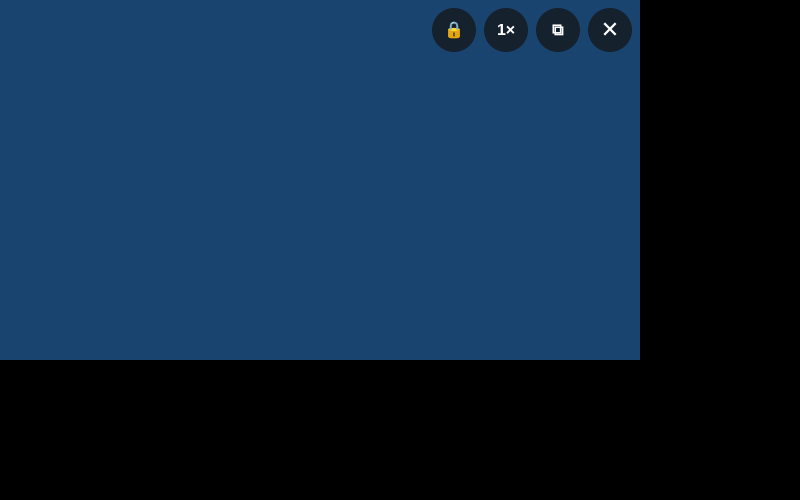
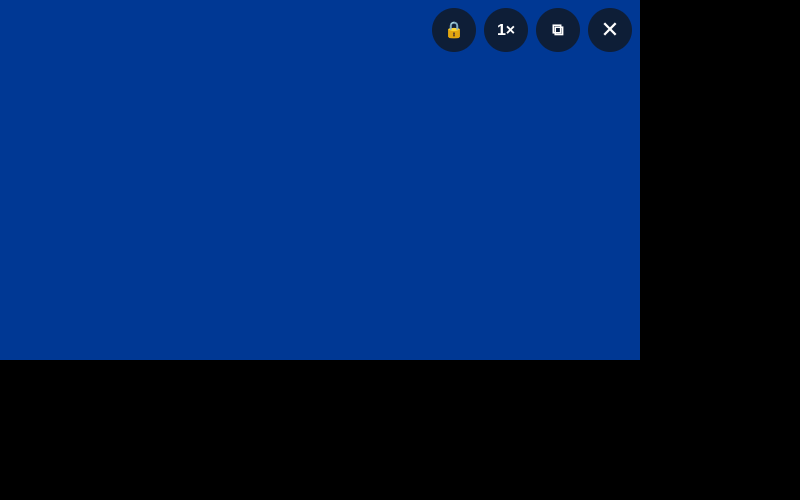
One player at a time: site player controls only (extra in-page tools off by default), native player hands the video back to the page if it cannot play it; smooth seek bar with buffered part, loading spinner, actual quality label; read-ahead buffering in the native player and for hls.js / video.js si
Claude-Session: https://claude.ai/code/session_01BTuB3s3o5GW3qnm8wd5fWm

diff --git a/android/app/src/main/java/com/aib/browser/PlayerActivity.kt b/android/app/src/main/java/com/aib/browser/PlayerActivity.kt
@@ -73,7 +73,13 @@ class PlayerActivity : Activity() {
     private var renderer: Renderer? = null
     @Volatile private var aiWanted = true
     private var page = ""
+    private val startedAt = System.currentTimeMillis()
     private var retries = 0
+    private var dragging = false
+    private var everPlayed = false
+    private var failed = false
+    private var autoQuality = true
+    private lateinit var spinner: android.widget.ProgressBar
     private lateinit var directView: SurfaceView
     private var hdrDirect = false
     private lateinit var eqBtn: TextView
@@ -121,9 +127,10 @@ class PlayerActivity : Activity() {
         seek = SeekBar(this).apply {
             max = 1000
             setOnSeekBarChangeListener(object : SeekBar.OnSeekBarChangeListener {
-                override fun onProgressChanged(s: SeekBar, p: Int, fromUser: Boolean) { if (fromUser && player.duration > 0) player.seekTo(player.duration * p / 1000) }
-                override fun onStartTrackingTouch(s: SeekBar) { ui.removeCallbacks(hideControls) }
-                override fun onStopTrackingTouch(s: SeekBar) { showControls() }
+                // while dragging only the time label follows the finger; one seek when the finger lifts (no stutter on slow networks)
+                override fun onProgressChanged(s: SeekBar, p: Int, fromUser: Boolean) { if (fromUser && player.duration > 0) time.text = "  ${fmt(player.duration * p / 1000)} / ${fmt(player.duration)}" }
+                override fun onStartTrackingTouch(s: SeekBar) { dragging = true; ui.removeCallbacks(hideControls) }
+                override fun onStopTrackingTouch(s: SeekBar) { dragging = false; if (player.duration > 0) player.seekTo(player.duration * s.progress / 1000); showControls() }
             })
         }
         time = TextView(this).apply { textSize = 13f; setTextColor(Color.WHITE) }
@@ -145,19 +152,35 @@ class PlayerActivity : Activity() {
         overlay.addView(status, FrameLayout.LayoutParams(-2, -2, Gravity.BOTTOM or Gravity.START).apply { setMargins(dp(20), 0, 0, dp(64)) })
         controls = overlay
         root.addView(overlay, FrameLayout.LayoutParams(-1, -1))
+        spinner = android.widget.ProgressBar(this).apply { isIndeterminate = true; indeterminateTintList = android.content.res.ColorStateList.valueOf(Color.WHITE); visibility = View.GONE }
+        root.addView(spinner, FrameLayout.LayoutParams(dp(56), dp(56), Gravity.CENTER))
         toast = TextView(this).apply { textSize = 20f; setTextColor(Color.WHITE); background = pill(0xAA000000.toInt()); setPadding(dp(18), dp(10), dp(18), dp(10)); visibility = View.GONE }
         root.addView(toast, FrameLayout.LayoutParams(-2, -2, Gravity.CENTER))
         setContentView(root)
 
         val http = DefaultHttpDataSource.Factory().setUserAgent(ua).setDefaultRequestProperties(headers).setAllowCrossProtocolRedirects(true)
             .setConnectTimeoutMs(15000).setReadTimeoutMs(20000)
-        player = ExoPlayer.Builder(this).setMediaSourceFactory(DefaultMediaSourceFactory(this).setDataSourceFactory(http)).build()
+        // keep downloading ahead while you watch (up to 30 minutes or ~300 MB in memory, whichever comes first), so a weak or dropping
+        // connection does not stop the movie; playback starts as soon as 1.5 s is ready
+        val load = androidx.media3.exoplayer.DefaultLoadControl.Builder()
+            .setBufferDurationsMs(10 * 60_000, 30 * 60_000, 1_500, 3_000)
+            .setTargetBufferBytes(300 * 1024 * 1024).setPrioritizeTimeOverSizeThresholds(false)
+            .setBackBuffer(2 * 60_000, true) // seeking back up to 2 minutes is instant
+            .build()
+        player = ExoPlayer.Builder(this).setLoadControl(load).setMediaSourceFactory(DefaultMediaSourceFactory(this).setDataSourceFactory(http)).build()
         setupSound()
         val item = MediaItem.Builder().setUri(url).apply { if (url.contains(".m3u8", true) || intent.getBooleanExtra("hls", false)) setMimeType(MimeTypes.APPLICATION_M3U8) }.build()
         player.setMediaItem(item, intent.getLongExtra("pos", 0L).coerceAtLeast(0L))
         player.prepare(); player.playWhenReady = true
         player.addListener(object : Player.Listener {
-            override fun onIsPlayingChanged(isPlaying: Boolean) { playBtn.text = if (isPlaying) "⏸" else "▶"; if (isPlaying) retries = 0 }
+            override fun onIsPlayingChanged(isPlaying: Boolean) { playBtn.text = if (isPlaying) "⏸" else "▶"; if (isPlaying) { retries = 0; everPlayed = true } }
+            override fun onRenderedFirstFrame() { everPlayed = true }
+            override fun onPlaybackStateChanged(state: Int) {
+                val buffering = state == Player.STATE_BUFFERING
+                spinner.visibility = if (buffering) View.VISIBLE else View.GONE
+                playBtn.visibility = if (buffering) View.INVISIBLE else View.VISIBLE
+                if (state == Player.STATE_ENDED) { Resume.remove(this@PlayerActivity, page); finish() }
+            }
             override fun onPlayerError(error: PlaybackException) {
                 addLog("[player] error ${error.errorCodeName} ${error.message}")
                 // network dropped or the server hiccuped: try again from the same second, waiting a bit longer each time
@@ -174,7 +197,8 @@ class PlayerActivity : Activity() {
                         if (error.errorCode == PlaybackException.ERROR_CODE_BEHIND_LIVE_WINDOW) player.seekToDefaultPosition()
                         player.prepare(); player.playWhenReady = true
                     }, wait)
-                } else status.text = if (c == PlaybackException.ERROR_CODE_IO_BAD_HTTP_STATUS || c == PlaybackException.ERROR_CODE_IO_FILE_NOT_FOUND) "انتهت صلاحية رابط الفيديو، ارجع للصفحة وشغّله من جديد" else "خطأ في التشغيل: ${error.errorCodeName}"
+                } else if (!everPlayed) giveUp("${error.errorCodeName}")
+                else status.text = if (c == PlaybackException.ERROR_CODE_IO_BAD_HTTP_STATUS || c == PlaybackException.ERROR_CODE_IO_FILE_NOT_FOUND) "انتهت صلاحية رابط الفيديو، ارجع للصفحة وشغّله من جديد" else "خطأ في التشغيل: ${error.errorCodeName}"
             }
             override fun onTracksChanged(tracks: androidx.media3.common.Tracks) {
                 val f = tracks.groups.firstOrNull { it.type == C.TRACK_TYPE_VIDEO && it.isSelected }?.let { g -> (0 until g.length).firstOrNull { g.isTrackSelected(it) }?.let { g.getTrackFormat(it) } }
@@ -201,13 +225,30 @@ class PlayerActivity : Activity() {
         tickUi(); showControls()
     }
 
+    /** The native player could not start this video (protected stream, wrong address...): go back, the page keeps playing it. */
+    private fun giveUp(why: String) {
+        if (failed || isFinishing) return
+        failed = true; addLog("[player] gave up before the first frame: $why")
+        finish()
+    }
+    override fun finish() {
+        if (::player.isInitialized) setResult(RESULT_OK, Intent().putExtra("pos", player.currentPosition).putExtra("failed", failed))
+        super.finish()
+    }
+
     private val hideControls = Runnable { controls.visibility = View.GONE }
     private fun showControls() { controls.visibility = View.VISIBLE; ui.removeCallbacks(hideControls); ui.postDelayed(hideControls, 3500) }
     private fun fmt(ms: Long): String { val s = ms / 1000; return if (s >= 3600) "%d:%02d:%02d".format(s / 3600, s / 60 % 60, s % 60) else "%d:%02d".format(s / 60, s % 60) }
     private fun tickUi() {
         if (isFinishing) return
         val d = player.duration
-        if (d > 0) { seek.progress = (player.currentPosition * 1000 / d).toInt(); time.text = "  ${fmt(player.currentPosition)} / ${fmt(d)}" }
+        if (d > 0 && !dragging) {
+            seek.progress = (player.currentPosition * 1000 / d).toInt(); seek.secondaryProgress = (player.bufferedPosition * 1000 / d).toInt()
+            time.text = "  ${fmt(player.currentPosition)} / ${fmt(d)}"
+        }
+        if (autoQuality) { val h = player.videoSize.height; qualityBtn.text = if (h > 0) "تلقائي ${h}p" else "تلقائي" }
+        // still nothing on screen after 30 s: this address does not work here, hand the video back to the page
+        if (!everPlayed && !failed && player.playbackState == Player.STATE_BUFFERING && System.currentTimeMillis() - startedAt > 30_000) giveUp("timeout")
         ui.postDelayed({ tickUi() }, 500)
     }
     private fun flash(t: String) { toast.text = t; toast.visibility = View.VISIBLE; ui.removeCallbacks(hideToast); ui.postDelayed(hideToast, 700) }
@@ -284,7 +325,7 @@ class PlayerActivity : Activity() {
         val opts = ArrayList<Pair<String, (() -> Unit)>>()
         opts.add("تلقائي" to {
             player.trackSelectionParameters = player.trackSelectionParameters.buildUpon().clearOverridesOfType(C.TRACK_TYPE_VIDEO).build()
-            qualityBtn.text = "تلقائي"
+            autoQuality = true
         })
         for (g in player.currentTracks.groups) {
             if (g.type != C.TRACK_TYPE_VIDEO) continue
@@ -294,7 +335,7 @@ class PlayerActivity : Activity() {
                 opts.add("${h}p" to {
                     player.trackSelectionParameters = player.trackSelectionParameters.buildUpon()
                         .setOverrideForType(androidx.media3.common.TrackSelectionOverride(g.mediaTrackGroup, i)).build()
-                    qualityBtn.text = "${h}p"
+                    qualityBtn.text = "${h}p"; autoQuality = false
                 })
             }
         }
@@ -347,7 +388,7 @@ class PlayerActivity : Activity() {
         ui.removeCallbacksAndMessages(null)
         saveResume()
         try { eq?.release(); loud?.release() } catch (e: Throwable) { }
-        if (::player.isInitialized) { setResult(RESULT_OK, Intent().putExtra("pos", player.currentPosition)); player.release() }
+        if (::player.isInitialized) player.release()
         renderer?.stop(); renderer = null
         super.onDestroy()
     }

diff --git a/android/app/src/main/java/com/aib/browser/MainActivity.kt b/android/app/src/main/java/com/aib/browser/MainActivity.kt
@@ -54,6 +54,7 @@ import java.io.FileNotFoundException
 private const val ASSET_HOST = "appassets.min.local"
 private const val HOME = "https://www.google.com"
 private const val FILE_REQ = 41
+private const val PLAYER_REQ = 42
 
 class MainActivity : Activity() {
     private lateinit var web: WebView
@@ -108,7 +109,7 @@ class MainActivity : Activity() {
     /* ======================= settings ======================= */
     private val defaults = mapOf(
         "enabled" to true, "neural" to true, "tone" to true, "images" to true,
-        "autoNative" to true, "gestures" to true, "brightness" to false,
+        "autoNative" to true, "gestures" to false, "brightness" to false,
         "adblock" to true, "popups" to true, "protect" to true, "adult" to false, "dark" to true, "cookies" to true, "noAutoplay" to true
     )
     private val targets = intArrayOf(0, 720, 1080, 1440, 2160)
@@ -172,6 +173,9 @@ class MainActivity : Activity() {
         val s = u.toString()
         if (media.none { it.url == s }) { media.add(Media(s, req.requestHeaders["Referer"], hls)); while (media.size > 30) media.removeAt(0) }
     }
+    /** sites where the native player could not play the video: they stay in the page player for this session */
+    private val noNative = java.util.Collections.synchronizedSet(HashSet<String?>())
+    private var nativeHost: String? = null
     private fun openNative(src: String, posSec: Double) {
         val direct = if (src.startsWith("http")) Media(src, web.url, src.contains(".m3u8", true)) else null
         // HLS players request the master playlist first, so the first .m3u8 is the best choice
@@ -184,10 +188,11 @@ class MainActivity : Activity() {
         val saved = Resume.position(this, page)
         val pos = if (posSec < 5 && saved > 0) saved else (posSec * 1000).toLong()
         addLog("[AIB] native player: ${if (m.hls) "HLS" else "file"} ${m.url.take(120)} from ${pos / 1000}s")
-        startActivity(Intent(this, PlayerActivity::class.java)
+        nativeHost = pageHost
+        startActivityForResult(Intent(this, PlayerActivity::class.java)
             .putExtra("url", m.url).putExtra("hls", m.hls).putExtra("referer", m.referer ?: page)
             .putExtra("ua", web.settings.userAgentString).putExtra("cookie", CookieManager.getInstance().getCookie(m.url) ?: "")
-            .putExtra("pos", pos).putExtra("title", web.title ?: "").putExtra("page", page))
+            .putExtra("pos", pos).putExtra("title", web.title ?: "").putExtra("page", page), PLAYER_REQ)
     }
 
     /** Small bridge for the in-page player controls. Every method is harmless if a page calls it. */
@@ -195,7 +200,7 @@ class MainActivity : Activity() {
         @android.webkit.JavascriptInterface fun openNative(src: String, pos: Double) { ui.post { this@MainActivity.openNative(src, pos) } }
         /** auto mode: only switches when a real video address is known; otherwise the page keeps playing */
         @android.webkit.JavascriptInterface fun autoNative(src: String, pos: Double): Boolean {
-            if (!on("autoNative")) return false
+            if (!on("autoNative") || pageHost in noNative) return false
             if (!src.startsWith("http") && media.isEmpty()) return false
             ui.post { this@MainActivity.openNative(src, pos) }
             return true
@@ -232,12 +237,12 @@ class MainActivity : Activity() {
     /* ======================= picture in picture ======================= */
     private fun pipParams(): android.app.PictureInPictureParams {
         val b = android.app.PictureInPictureParams.Builder().setAspectRatio(videoAspect)
-        if (android.os.Build.VERSION.SDK_INT >= 31) b.setAutoEnterEnabled(videoPlaying && on("gestures")).setSeamlessResizeEnabled(true)
+        if (android.os.Build.VERSION.SDK_INT >= 31) b.setAutoEnterEnabled(videoPlaying).setSeamlessResizeEnabled(true)
         return b.build()
     }
     private fun updatePipParams() { try { setPictureInPictureParams(pipParams()) } catch (e: Exception) { } }
     private fun enterPip() { if (videoPlaying) try { enterPictureInPictureMode(pipParams()) } catch (e: Exception) { addLog("[AIB] PiP failed: $e") } }
-    override fun onUserLeaveHint() { super.onUserLeaveHint(); if (android.os.Build.VERSION.SDK_INT < 31 && videoPlaying && on("gestures")) enterPip() }
+    override fun onUserLeaveHint() { super.onUserLeaveHint(); if (android.os.Build.VERSION.SDK_INT < 31 && videoPlaying) enterPip() }
     override fun onPictureInPictureModeChanged(inPip: Boolean, newConfig: android.content.res.Configuration) {
         super.onPictureInPictureModeChanged(inPip, newConfig)
         bottomBar.visibility = if (inPip) View.GONE else View.VISIBLE
@@ -268,7 +273,7 @@ class MainActivity : Activity() {
         scriptHandler = WebViewCompat.addDocumentStartJavaScript(web, "window.__minCfg0=${config()};\n$bundle$extra", setOf("*"))
     }
     /** Tells the app on every touch whether the touched content is scrolled to its top (inner scroll areas too), so pull-to-refresh never fires mid-page. */
-    private val PULL_JS = """(function(){if(window.__aibPull)return;window.__aibPull=1;addEventListener('touchstart',function(e){var n=window.AIBNative;if(!n||!n.pullOk)return;var ok=(document.scrollingElement||document.documentElement).scrollTop<=0;for(var el=e.target;ok&&el&&el.nodeType===1;el=el.parentElement){if(el.scrollTop>0)ok=false}try{n.pullOk(ok)}catch(x){}},{passive:true,capture:true})})();"""
+    private val PULL_JS = """(function(){if(window.__aibPull)return;window.__aibPull=1;addEventListener('touchstart',function(e){var n=window.AIBNative;if(!n||!n.pullOk)return;var ok=(document.scrollingElement||document.documentElement).scrollTop<=0;for(var el=e.target;ok&&el&&el.nodeType===1;el=el.parentElement){if(el.scrollTop>0)ok=false}try{n.pullOk(ok)}catch(x){}},{passive:true,capture:true});window.__aibResume=function(t,play){var vs=[].slice.call(document.querySelectorAll('video')).filter(function(v){return v.duration>0});vs.sort(function(a,b){return b.duration-a.duration});var v=vs[0];if(v){if(t>1)v.currentTime=t;if(play)v.play().catch(function(){})}for(var i=0;i<frames.length;i++)try{frames[i].postMessage({__aibResume:[t,play]},'*')}catch(x){}};addEventListener('message',function(e){if(e.data&&e.data.__aibResume&&e.source===parent)window.__aibResume(e.data.__aibResume[0],e.data.__aibResume[1])})})();"""
     @Volatile private var pullOk = true
     private fun applyConfig() {
         registerScript()
@@ -648,6 +653,17 @@ class MainActivity : Activity() {
     }
     @Deprecated("plain Activity API")
     override fun onActivityResult(requestCode: Int, resultCode: Int, data: Intent?) {
+        if (requestCode == PLAYER_REQ) {
+            val failed = data?.getBooleanExtra("failed", false) == true
+            val pos = (data?.getLongExtra("pos", 0L) ?: 0L) / 1000.0
+            if (failed) {
+                noNative.add(nativeHost)
+                Toast.makeText(this, "المشغّل الأصلي لم يستطع تشغيل هذا الفيديو، أكملته هنا", Toast.LENGTH_LONG).show()
+            }
+            // the page video continues from where the native player stopped (it plays again only if the native player failed)
+            web.evaluateJavascript("window.__aibResume&&window.__aibResume($pos,$failed)", null)
+            return
+        }
         if (requestCode == FILE_REQ) { fileCallback?.onReceiveValue(WebChromeClient.FileChooserParams.parseResult(resultCode, data)); fileCallback = null; return }
         @Suppress("DEPRECATION") super.onActivityResult(requestCode, resultCode, data)
     }
@@ -697,7 +713,7 @@ class MainActivity : Activity() {
             Ui.Group(this, col, "إزالة الضوضاء وتكسّر الضغط").segmented(denoiseLabels, denoise.indexOfFirst { it == prefs.getFloat("denoise", 0.35f) }.let { if (it < 0) 2 else it }) { i -> prefs.edit().putFloat("denoise", denoise[i]).apply(); applyConfig() }
             Ui.Group(this, col, "المشغّل", "المشغّل الأصلي يرفع الدقة على المعالج العصبي في جوالك.").apply {
                 toggle("فتح الأفلام تلقائياً في المشغّل الأصلي", on("autoNative")) { set("autoNative", it); applyConfig() }
-                toggle("أزرار وإيماءات المشغّل في الصفحات", on("gestures")) { set("gestures", it); applyConfig() }
+                toggle("أدوات إضافية فوق مشغّل الموقع (سرعة، قفل، إيماءات)", on("gestures")) { set("gestures", it); applyConfig() }
                 toggle("سطوع أعلى في ملء الشاشة", on("brightness")) { set("brightness", it) }
                 link("أكمل المشاهدة", "${Resume.list(this@MainActivity).size}") { dlg.dismiss(); showContinue() }
             }

diff --git a/android/app/src/main/assets/engine.js b/android/app/src/main/assets/engine.js
@@ -8,9 +8,23 @@
   const HOST = 'https://appassets.min.local/'
   const cfg = {
     enabled: true, target: 1440, sharpness: 0.6, neural: true, denoise: 0.35,
-    tone: true, images: true, gestures: true, autoNative: true
+    tone: true, images: true, gestures: false, autoNative: true
   }
   Object.assign(cfg, window.__minCfg0 || {})
+  /* Read-ahead for site players: hls.js and video.js normally fetch only ~30 s ahead; ask them to keep loading
+     up to 10 minutes ahead (capped at ~200 MB), so a slow or dropping connection does not stall the movie. */
+  ;(function bufferAhead () {
+    const tuneHls = (H) => { try { const c = H && H.DefaultConfig; if (c && !c.__aib) { c.__aib = 1; c.maxBufferLength = 600; c.maxMaxBufferLength = 1800; c.maxBufferSize = 200 * 1000 * 1000; c.backBufferLength = 120 } } catch (e) { /* ignore */ } }
+    const tuneVjs = (V) => { try { const v = V && (V.Vhs || V.Hls); if (v && !v.__aib) { v.__aib = 1; v.GOAL_BUFFER_LENGTH = 600; v.MAX_GOAL_BUFFER_LENGTH = 1800; v.GOAL_BUFFER_LENGTH_RATE = 1 } } catch (e) { /* ignore */ } }
+    const trap = (name, tune) => {
+      if (window[name]) { tune(window[name]); return }
+      let val
+      try { Object.defineProperty(window, name, { configurable: true, enumerable: true, get () { return val }, set (v) { val = v; tune(v) } }) } catch (e) { /* ignore */ }
+    }
+    trap('Hls', tuneHls); trap('videojs', tuneVjs)
+    // players that load later through a bundler: check again once the page has loaded
+    window.addEventListener('load', () => { tuneHls(window.Hls); tuneVjs(window.videojs) })
+  })()
   const nativeShort = () => Math.round(Math.min(screen.width, screen.height) * (window.devicePixelRatio || 1))
   const effTarget = () => cfg.target || nativeShort()
   try { // WebView: screen.orientation.lock() rejects, which breaks many players' fullscreen; native code rotates instead
@@ -509,12 +523,12 @@ void main(){
     const parent = document.fullscreenElement || document.webkitFullscreenElement || document.documentElement
     if (ctl.parentNode !== parent) parent.appendChild(ctl)
     fsBtn.textContent = inFs ? '✕' : '⛶'
-    const extra = cfg.gestures !== false
+    const extra = cfg.gestures === true // the site's own player controls are used; our extra buttons only if switched on
     speedBtn.style.display = pipBtn.style.display = extra ? 'block' : 'none'
     lockBtn.style.display = extra && inFs ? 'block' : 'none'
     nativeBtn.style.display = NATIVE && NATIVE.openNative ? 'block' : 'none'
     speedBtn.textContent = best.playbackRate + '×'
-    fsBtn.style.display = 'block'; ctl.style.display = 'flex'
+    fsBtn.style.display = extra ? 'block' : 'none'; ctl.style.display = 'flex'
     ctl.style.right = (window.innerWidth - right) + 'px'; ctl.style.top = top + 'px'
     fsBtn.style.left = Math.max(8, right - 44) + 'px'; fsBtn.style.top = top + 'px' // reported for diagnostics/tests
   }

diff --git a/engine-tests/controls.js b/engine-tests/controls.js
@@ -8,7 +8,7 @@ const ENGINE = path.resolve(__dirname, '../android/app/src/main/assets/engine.js
   page.on('console', m => { if (/AIB|Error/.test(m.text())) console.log('   ', m.text()) })
   await page.route('https://test.local/', r => r.fulfill({ contentType: 'text/html', body: '<meta name=viewport content="width=device-width"><body style="margin:0"><video id=v muted autoplay playsinline src="/t.webm" style="width:400px;height:225px;display:block;margin-top:100px"></video></body>' }))
   await page.route('https://test.local/t.webm', r => r.fulfill({ contentType: 'video/webm', body: fs.readFileSync('/tmp/claude-0/t.webm') }))
-  await page.addInitScript(() => { window.__calls = []; window.AIBNative = { playing: (a, w, h) => window.__calls.push(['playing', a, w, h]), brightness: d => { window.__calls.push(['b', d]); return 0.5 }, volume: d => { window.__calls.push(['v', d]); return 0.6 }, pip: () => window.__calls.push(['pip']) } })
+  await page.addInitScript(() => { window.__minCfg0 = { gestures: true } }); await page.addInitScript(() => { window.__calls = []; window.AIBNative = { playing: (a, w, h) => window.__calls.push(['playing', a, w, h]), brightness: d => { window.__calls.push(['b', d]); return 0.5 }, volume: d => { window.__calls.push(['v', d]); return 0.6 }, pip: () => window.__calls.push(['pip']) } })
   await page.goto('https://test.local/')
   await page.addScriptTag({ content: fs.readFileSync(ENGINE, 'utf8') })
   await page.waitForFunction(() => document.getElementById('v').readyState >= 2)

diff --git a/engine-tests/fs.js b/engine-tests/fs.js
@@ -5,6 +5,7 @@ const ENGINE = path.resolve(__dirname, '../android/app/src/main/assets/engine.js
   const page = await browser.newPage({ viewport: { width: 800, height: 500 } })
   page.on('pageerror', e => console.log('[pageerror]', e.message))
   await page.route('https://test.local/', r => r.fulfill({ contentType: 'text/html', body: '<body style="margin:0"><div id=box style="width:640px;height:360px"><video id=v muted autoplay style="width:640px;height:360px"></video></div></body>' }))
+  await page.addInitScript(() => { window.__minCfg0 = { gestures: true } })
   await page.goto('https://test.local/')
   await page.evaluate(() => { const c = document.createElement('canvas'); c.width = 160; c.height = 90; const x = c.getContext('2d'); setInterval(() => { x.fillStyle = '#345'; x.fillRect(0, 0, 160, 90) }, 33); const v = document.getElementById('v'); v.srcObject = c.captureStream(30); v.play() })
   await page.waitForFunction(() => document.getElementById('v').videoWidth > 0)
